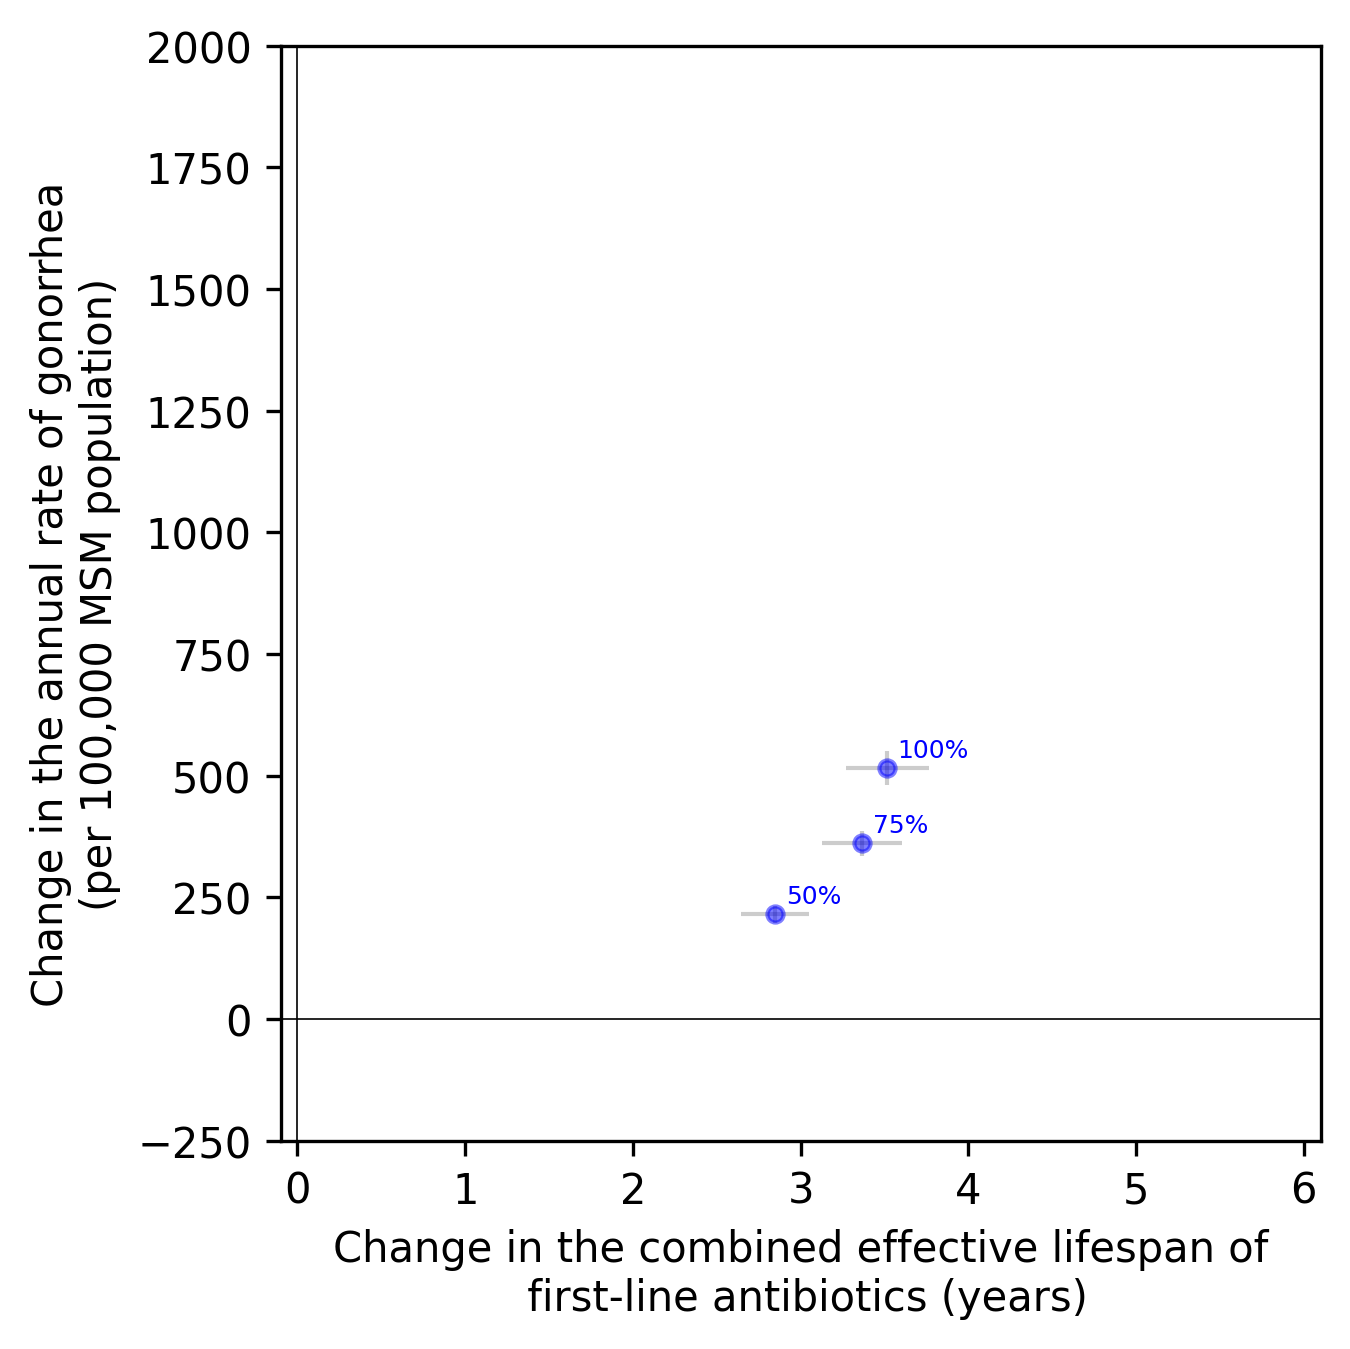
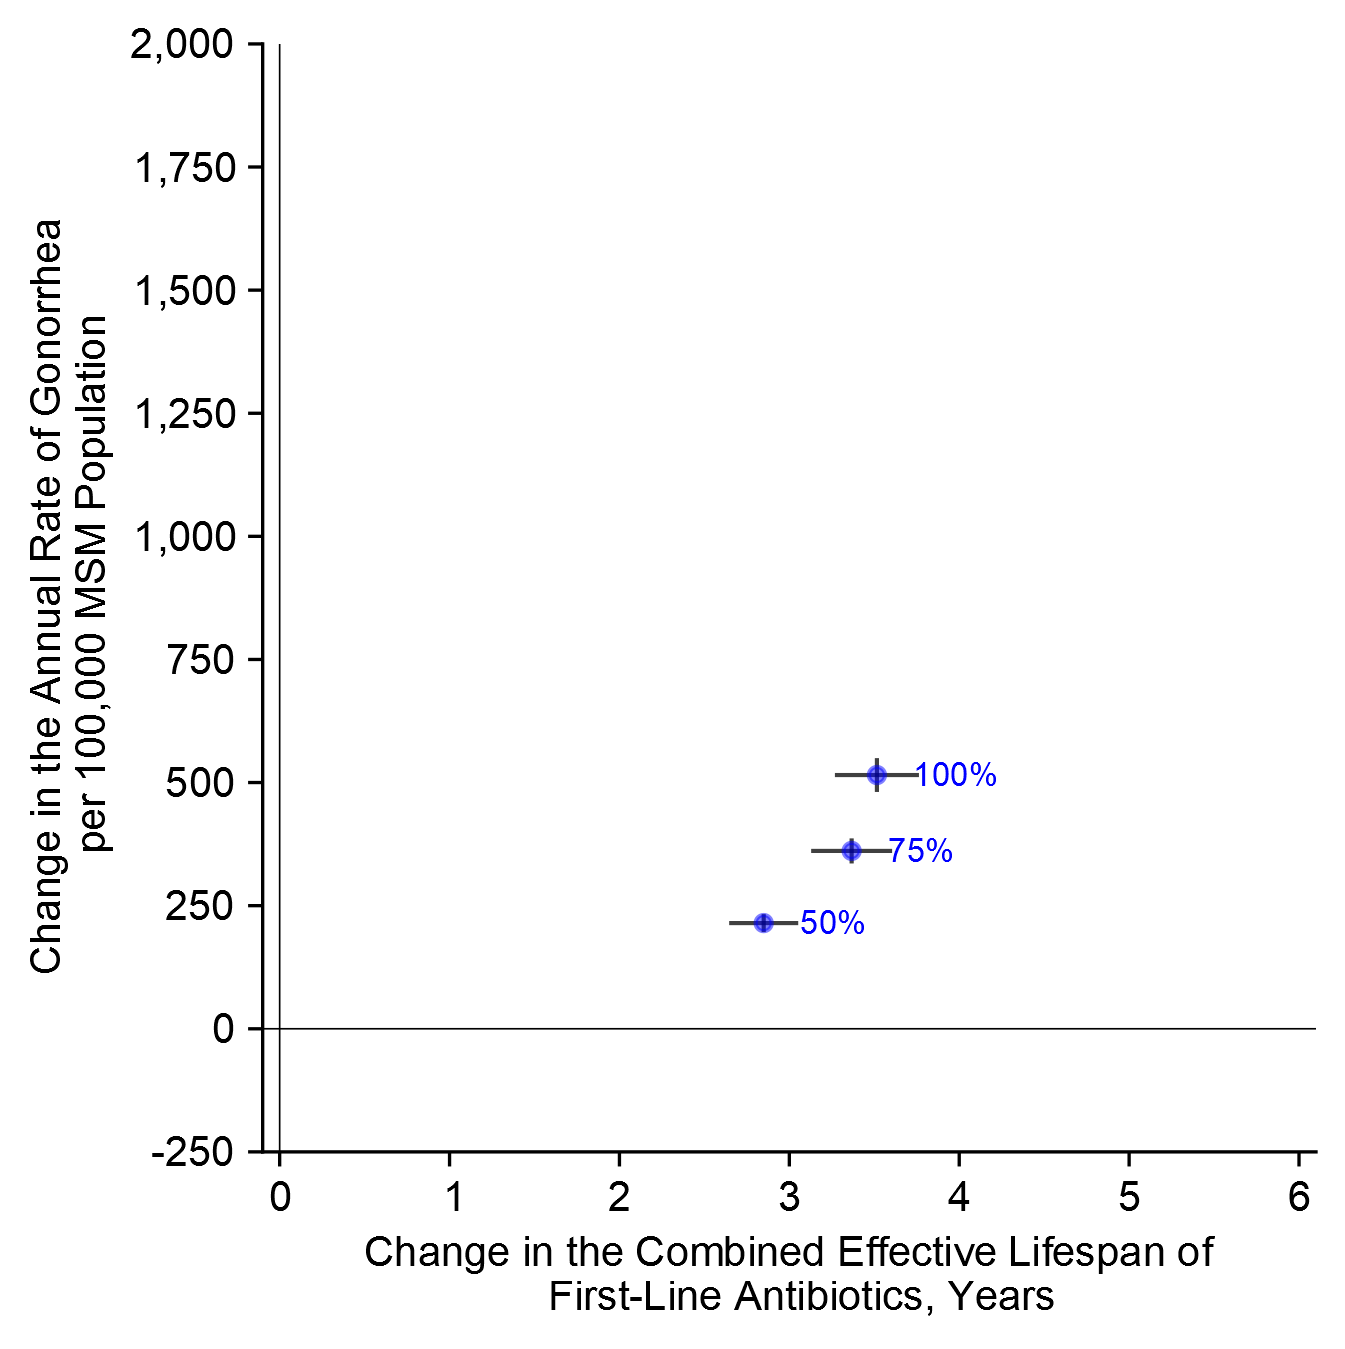
AJE tiff

Changed region(s): [[0.0, 0.0, 0.9993, 0.9963], [0.5621, 0.5293, 0.7494, 0.7161]]

diff --git a/analysis/analyze_and_plot_scenarios.py b/analysis/analyze_and_plot_scenarios.py
@@ -178,7 +178,7 @@ if __name__ == "__main__":
     export_summary_and_plots_for_varying_coverage(
         if_m_available=True, simulation_duration=SIM_DURATION, varying_trans_factor=True)
 
-    # # with wider prior distributions
+    # with wider prior distributions
     # for m in (True, False):
     #     export_summary_and_plots_for_varying_coverage(
     #         if_m_available=m, simulation_duration=SIM_DURATION, if_wider_priors=True)

diff --git a/model/scenario_and_sensitivity_analyses.py b/model/scenario_and_sensitivity_analyses.py
@@ -306,7 +306,7 @@ def get_sa_scenarios_with_specific_spec_coverage_ab(
         ],
         if_find_frontier=False,
         if_show_fitted_curve=False,
-        labels_shift_x=0.01,
+        labels_shift_x=0.015,
         labels_shift_y=0.01)
 
 
